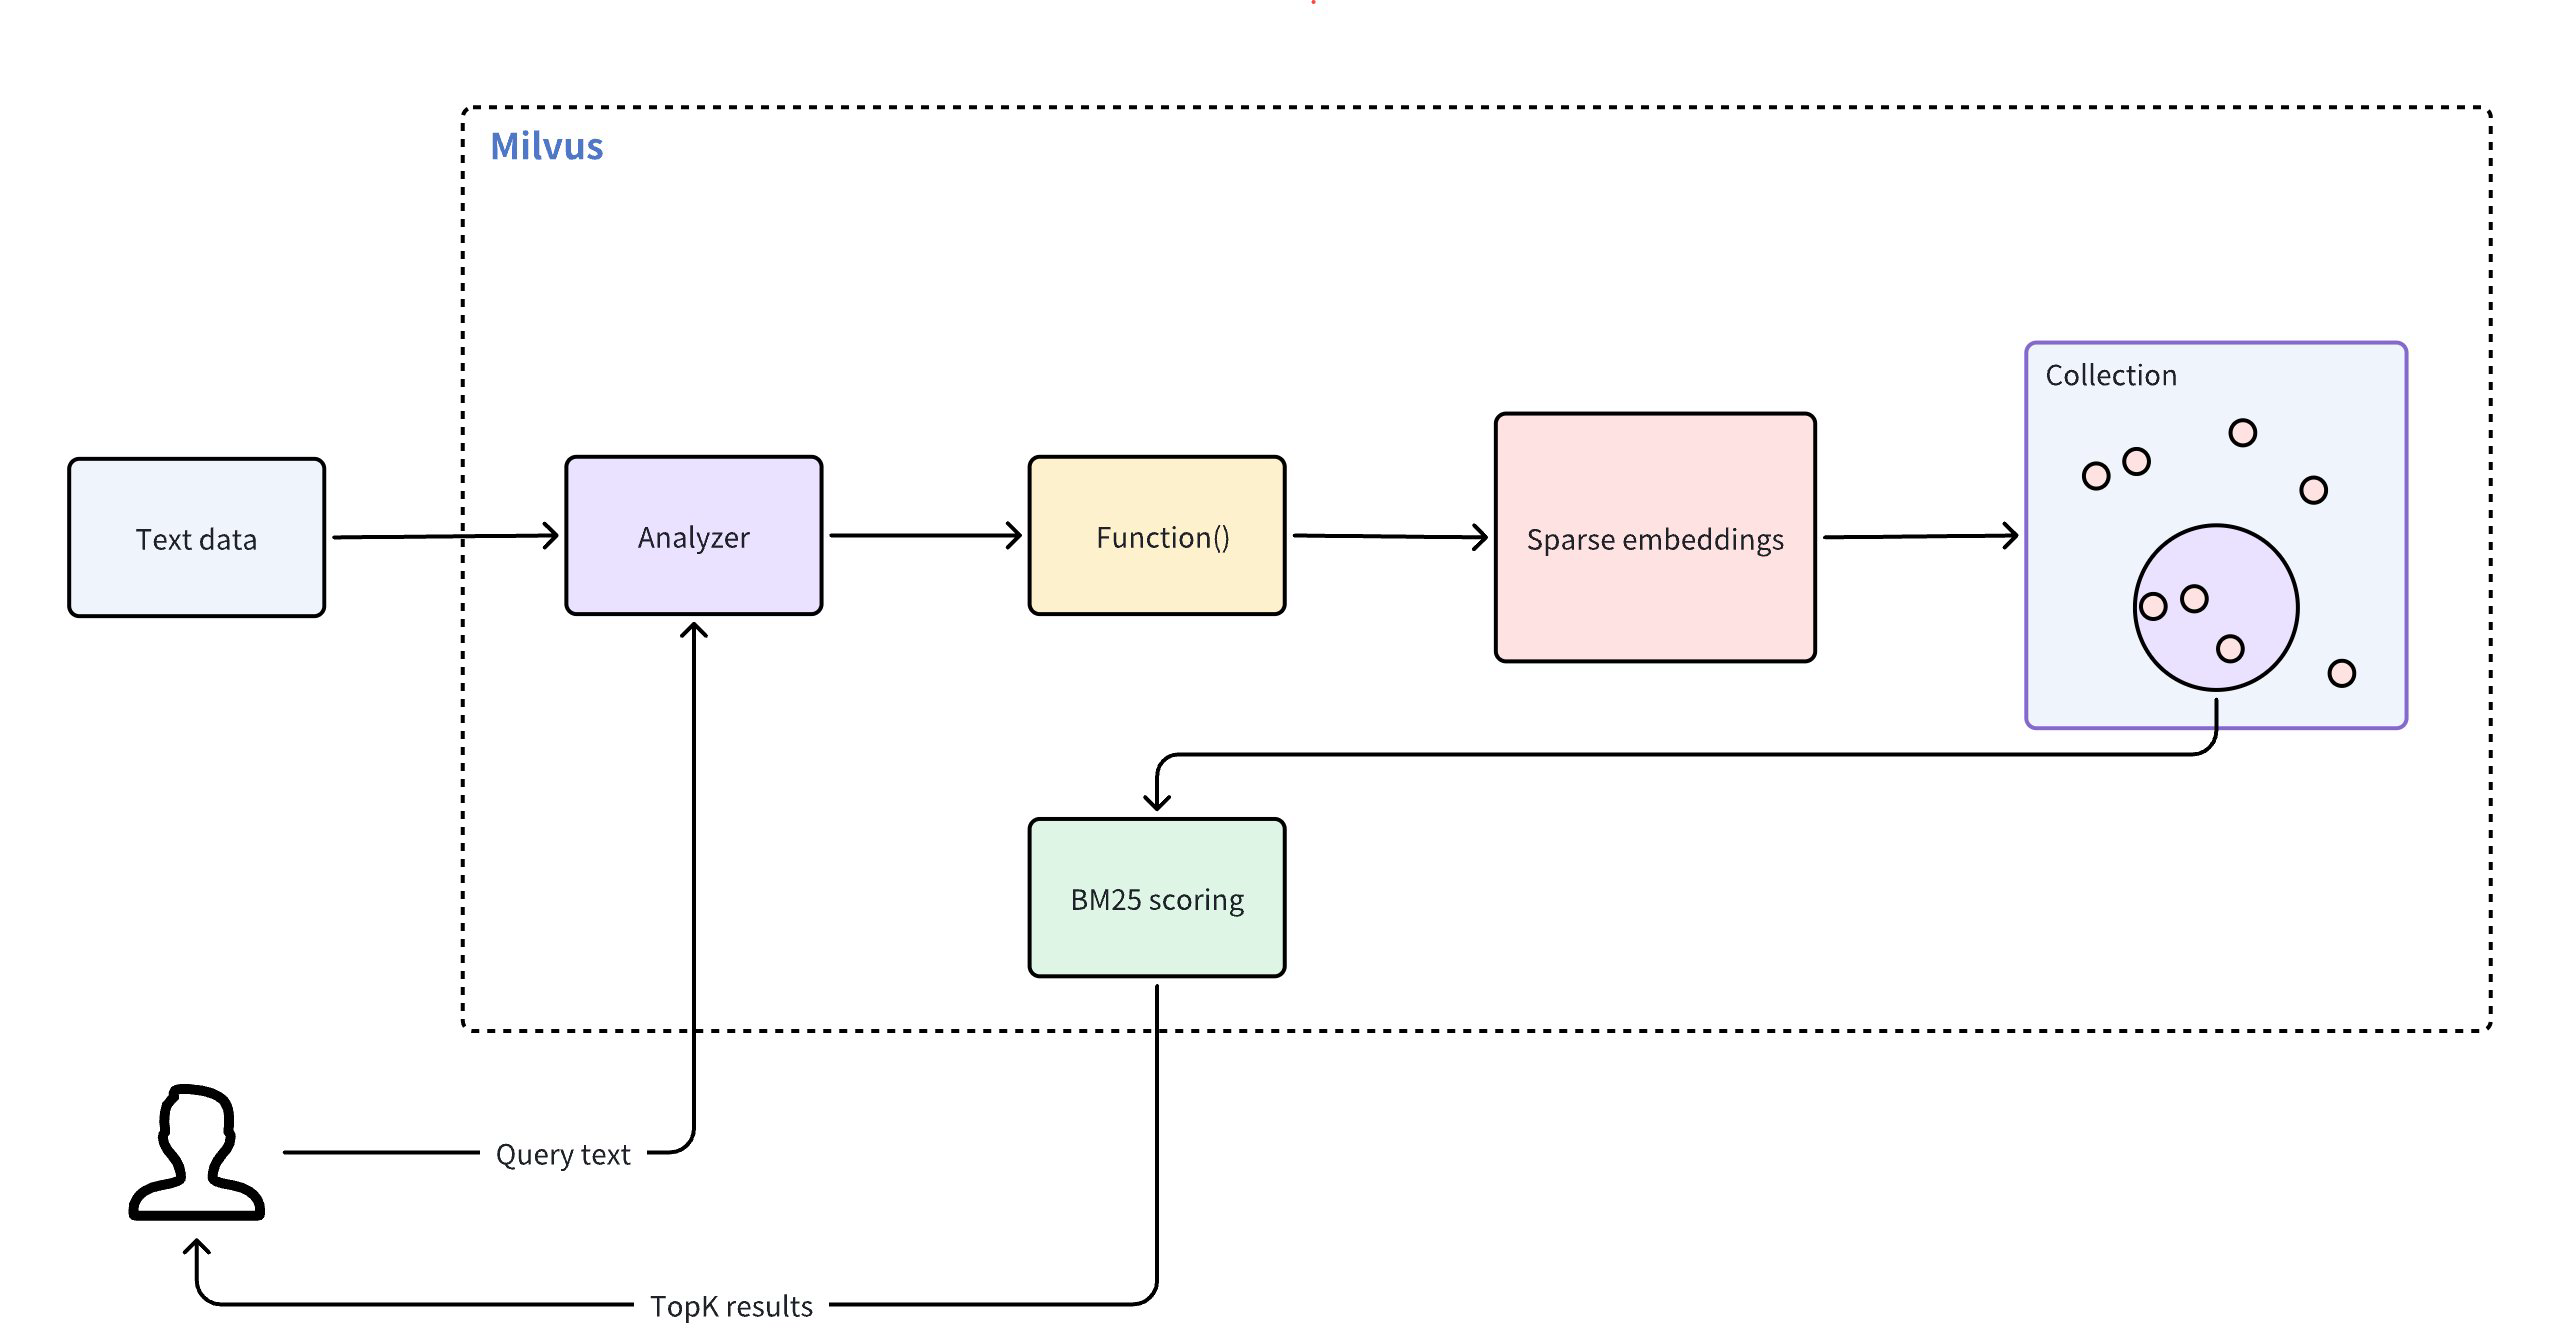
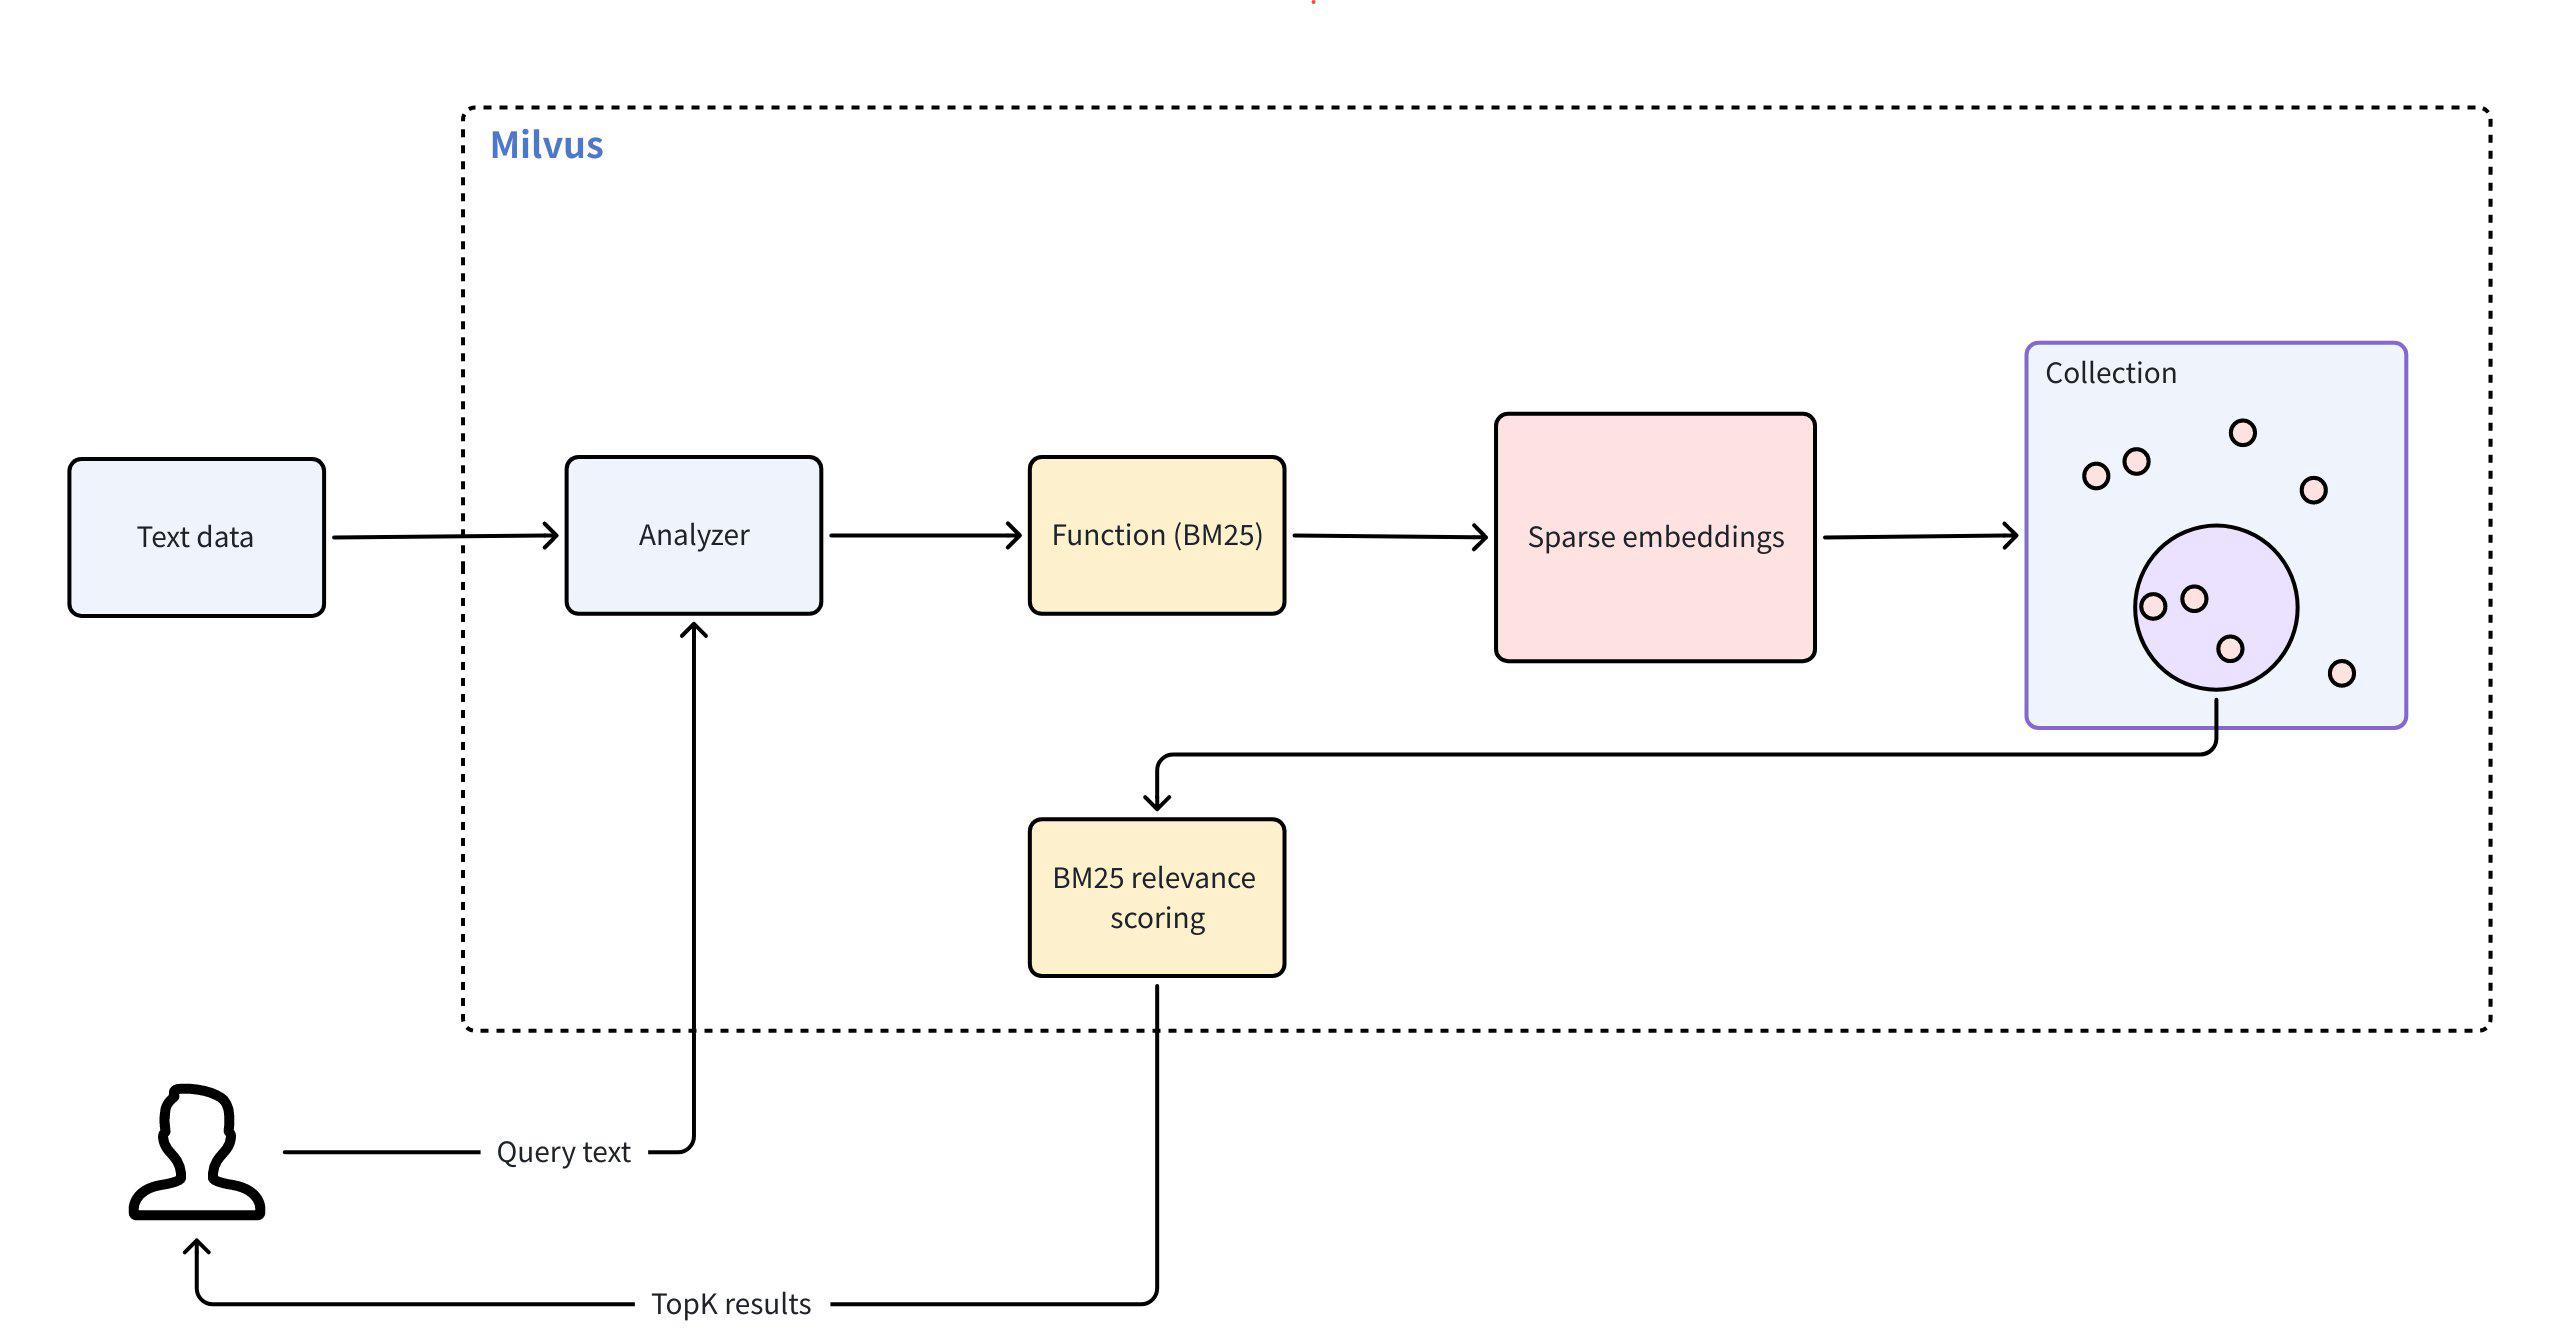
update fts

diff --git a/site/en/userGuide/search-query-get/full-text-search.md b/site/en/userGuide/search-query-get/full-text-search.md
@@ -16,43 +16,45 @@ By integrating full text search with semantic-based dense vector search, you can
 
 </div>
 
-## Overview
+## BM25 implementation
 
-Full text search simplifies the process of text-based searching by eliminating the need for manual embedding. This feature operates through the following workflow:
+Milvus provides full text search powered by the BM25 relevance algorithm, a widely adopted scoring function in information retrieval systems, and Milvus integrates it into the search workflow to deliver accurate, relevance-ranked text results.
 
-1. **Text input**: You insert raw text documents or provide query text without any need for manual embedding.
+Full text search in Milvus follows the workflow below:
 
-1. **Text analysis**: Milvus uses an [analyzer](analyzer-overview.md) to tokenize input text into individual, searchable terms.
+1. **Raw text input**: You insert text documents or provide a query using plain text, no embedding models required.
 
-1. **Function processing**: The built-in function receives tokenized terms and converts them into sparse vector representations.
+1. **Text analysis**: Milvus uses an [analyzer](analyzer-overview.md) to process your text into meaningful terms that can be indexed and searched.
 
-1. **Collection store**: Milvus stores these sparse embeddings in a collection for efficient retrieval.
+1. **BM25 function processing**: A built-in function transforms these terms into sparse vector representations optimized for BM25 scoring.
 
-1. **BM25 scoring**: During a search, Milvus applies the BM25 algorithm to calculate scores for the stored documents and ranks matched results based on relevance to the query text.
+1. **Collection store**: Milvus stores the resulting sparse embeddings in a collection for fast retrieval and ranking.
+
+1. **BM25 relevance scoring**: At search time, Milvus applies the BM25 scoring function to compute document relevance and return ranked results that best match the query terms.
 
 ![Full Text Search](../../../../assets/full-text-search.png)
 
 To use full text search, follow these main steps:
 
-1. [Create a collection](full-text-search.md#Create-a-collection-for-full-text-search): Set up a collection with necessary fields and define a function to convert raw text into sparse embeddings.
+1. [Create a collection](full-text-search.md#Create-a-collection-for-BM25-full-text-search): Set up the required fields and define a BM25 function that converts raw text into sparse embeddings.
 
 1. [Insert data](full-text-search.md#Insert-text-data): Ingest your raw text documents to the collection.
 
-1. [Perform searches](full-text-search.md#Perform-full-text-search): Use query texts to search through your collection and retrieve relevant results.
+1. [Perform searches](full-text-search.md#Perform-full-text-search): Use natural-language query text to retrieve ranked results based on BM25 relevance.
 
-## Create a collection for full text search
+## Create a collection for BM25 full text search
 
-To enable full text search, create a collection with a specific schema. This schema must include three necessary fields:
+To enable BM25-powered full text search, you must prepare a collection with the required fields, define a BM25 function to generate sparse vectors, configure an index, and then create the collection.
 
-- The primary field that uniquely identifies each entity in a collection.
+### Define schema fields
 
-- A `VARCHAR` field that stores raw text documents, with the `enable_analyzer` attribute set to `True`. This allows Milvus to tokenize text into specific terms for function processing.
+Your collection schema must include at least three required fields:
 
-- A `SPARSE_FLOAT_VECTOR` field reserved to store sparse embeddings that Milvus will automatically generate for the `VARCHAR` field.
+- **Primary field**: Uniquely identifies each entity in the collection.
 
-### Define the collection schema
+- **Text field** (`VARCHAR`): Stores raw text documents. Must set `enable_analyzer=True` so Milvus can process the text for BM25 relevance ranking. By default, Milvus uses the [`standard`](standard-analyzer.md)[ analyzer](standard-analyzer.md) for text analysis. To configure a different analyzer, refer to [Analyzer Overview](analyzer-overview.md).
 
-First, create the schema and add the necessary fields:
+- **Sparse vector field** (`SPARSE_FLOAT_VECTOR`): Stores sparse embeddings automatically generated by the BM25 function.
 
 <div class="multipleCode">
     <a href="#python">Python</a>
@@ -72,9 +74,11 @@ client = MilvusClient(
 
 schema = client.create_schema()
 
-schema.add_field(field_name="id", datatype=DataType.INT64, is_primary=True, auto_id=True)
-schema.add_field(field_name="text", datatype=DataType.VARCHAR, max_length=1000, enable_analyzer=True)
-schema.add_field(field_name="sparse", datatype=DataType.SPARSE_FLOAT_VECTOR)
+schema.add_field(field_name="id", datatype=DataType.INT64, is_primary=True, auto_id=True) # Primary field
+# highlight-start
+schema.add_field(field_name="text", datatype=DataType.VARCHAR, max_length=1000, enable_analyzer=True) # Text field
+schema.add_field(field_name="sparse", datatype=DataType.SPARSE_FLOAT_VECTOR) # Sparse vector field; no dim required for sparse vectors
+# highlight-end
 ```
 
 ```java
@@ -197,15 +201,19 @@ export schema='{
     }'
 ```
 
-In this configuration,
+In the preceding config,
 
 - `id`: serves as the primary key and is automatically generated with `auto_id=True`.
 
-- `text`: stores your raw text data for full text search operations. The data type must be `VARCHAR`, as `VARCHAR` is Milvus string data type for text storage. Set `enable_analyzer=True` to allow Milvus to tokenize the text. By default, Milvus uses the `standard`[ analyzer](standard-analyzer.md) for text analysis. To configure a different analyzer, refer to [Analyzer Overview](analyzer-overview.md).
+- `text`: stores your raw text data for full text search operations. The data type must be `VARCHAR`, as `VARCHAR` is Milvus string data type for text storage.
 
 - `sparse`: a vector field reserved to store internally generated sparse embeddings for full text search operations. The data type must be `SPARSE_FLOAT_VECTOR`.
 
-Now, define a function that will convert your text into sparse vector representations and then add it to the schema:
+### Define the BM25 function
+
+The BM25 function converts tokenized text into sparse vectors that support BM25 scoring.
+
+Define the function and add it to your schema:
 
 <div class="multipleCode">
     <a href="#python">Python</a>
@@ -220,6 +228,7 @@ bm25_function = Function(
     name="text_bm25_emb", # Function name
     input_field_names=["text"], # Name of the VARCHAR field containing raw text data
     output_field_names=["sparse"], # Name of the SPARSE_FLOAT_VECTOR field reserved to store generated embeddings
+    # highlight-next-line
     function_type=FunctionType.BM25, # Set to `BM25`
 )
 
@@ -304,7 +313,7 @@ export schema='{
    </tr>
    <tr>
      <td><p><code>name</code></p></td>
-     <td><p>The name of the function. This function converts your raw text from the <code>text</code> field into searchable vectors that will be stored in the <code>sparse</code> field.</p></td>
+     <td><p>The name of the function. This function converts your raw text from the <code>text</code> field into BM25-compatible sparse vectors that will be stored in the <code>sparse</code> field.</p></td>
    </tr>
    <tr>
      <td><p><code>input_field_names</code></p></td>
@@ -316,19 +325,19 @@ export schema='{
    </tr>
    <tr>
      <td><p><code>function_type</code></p></td>
-     <td><p>The type of the function to use. Set the value to <code>FunctionType.BM25</code>.</p></td>
+     <td><p>The type of the function to use. Must be <code>FunctionType.BM25</code>.</p></td>
    </tr>
 </table>
 
 <div class="alert note">
 
-For collections with multiple `VARCHAR` fields requiring text-to-sparse-vector conversion, add separate functions to the collection schema, ensuring each function has a unique name and `output_field_names` value.
+If multiple `VARCHAR` fields require BM25 processing, define **one BM25 function per field**, each with a unique name and output field.
 
 </div>
 
 ### Configure the index
 
-After defining the schema with necessary fields and the built-in function, set up the index for your collection. To simplify this process, use `AUTOINDEX` as the `index_type`, an option that allows Milvus to choose and configure the most suitable index type based on the structure of your data.
+After defining the schema with necessary fields and the built-in function, set up the index for your collection.
 
 <div class="multipleCode">
     <a href="#python">Python</a>
